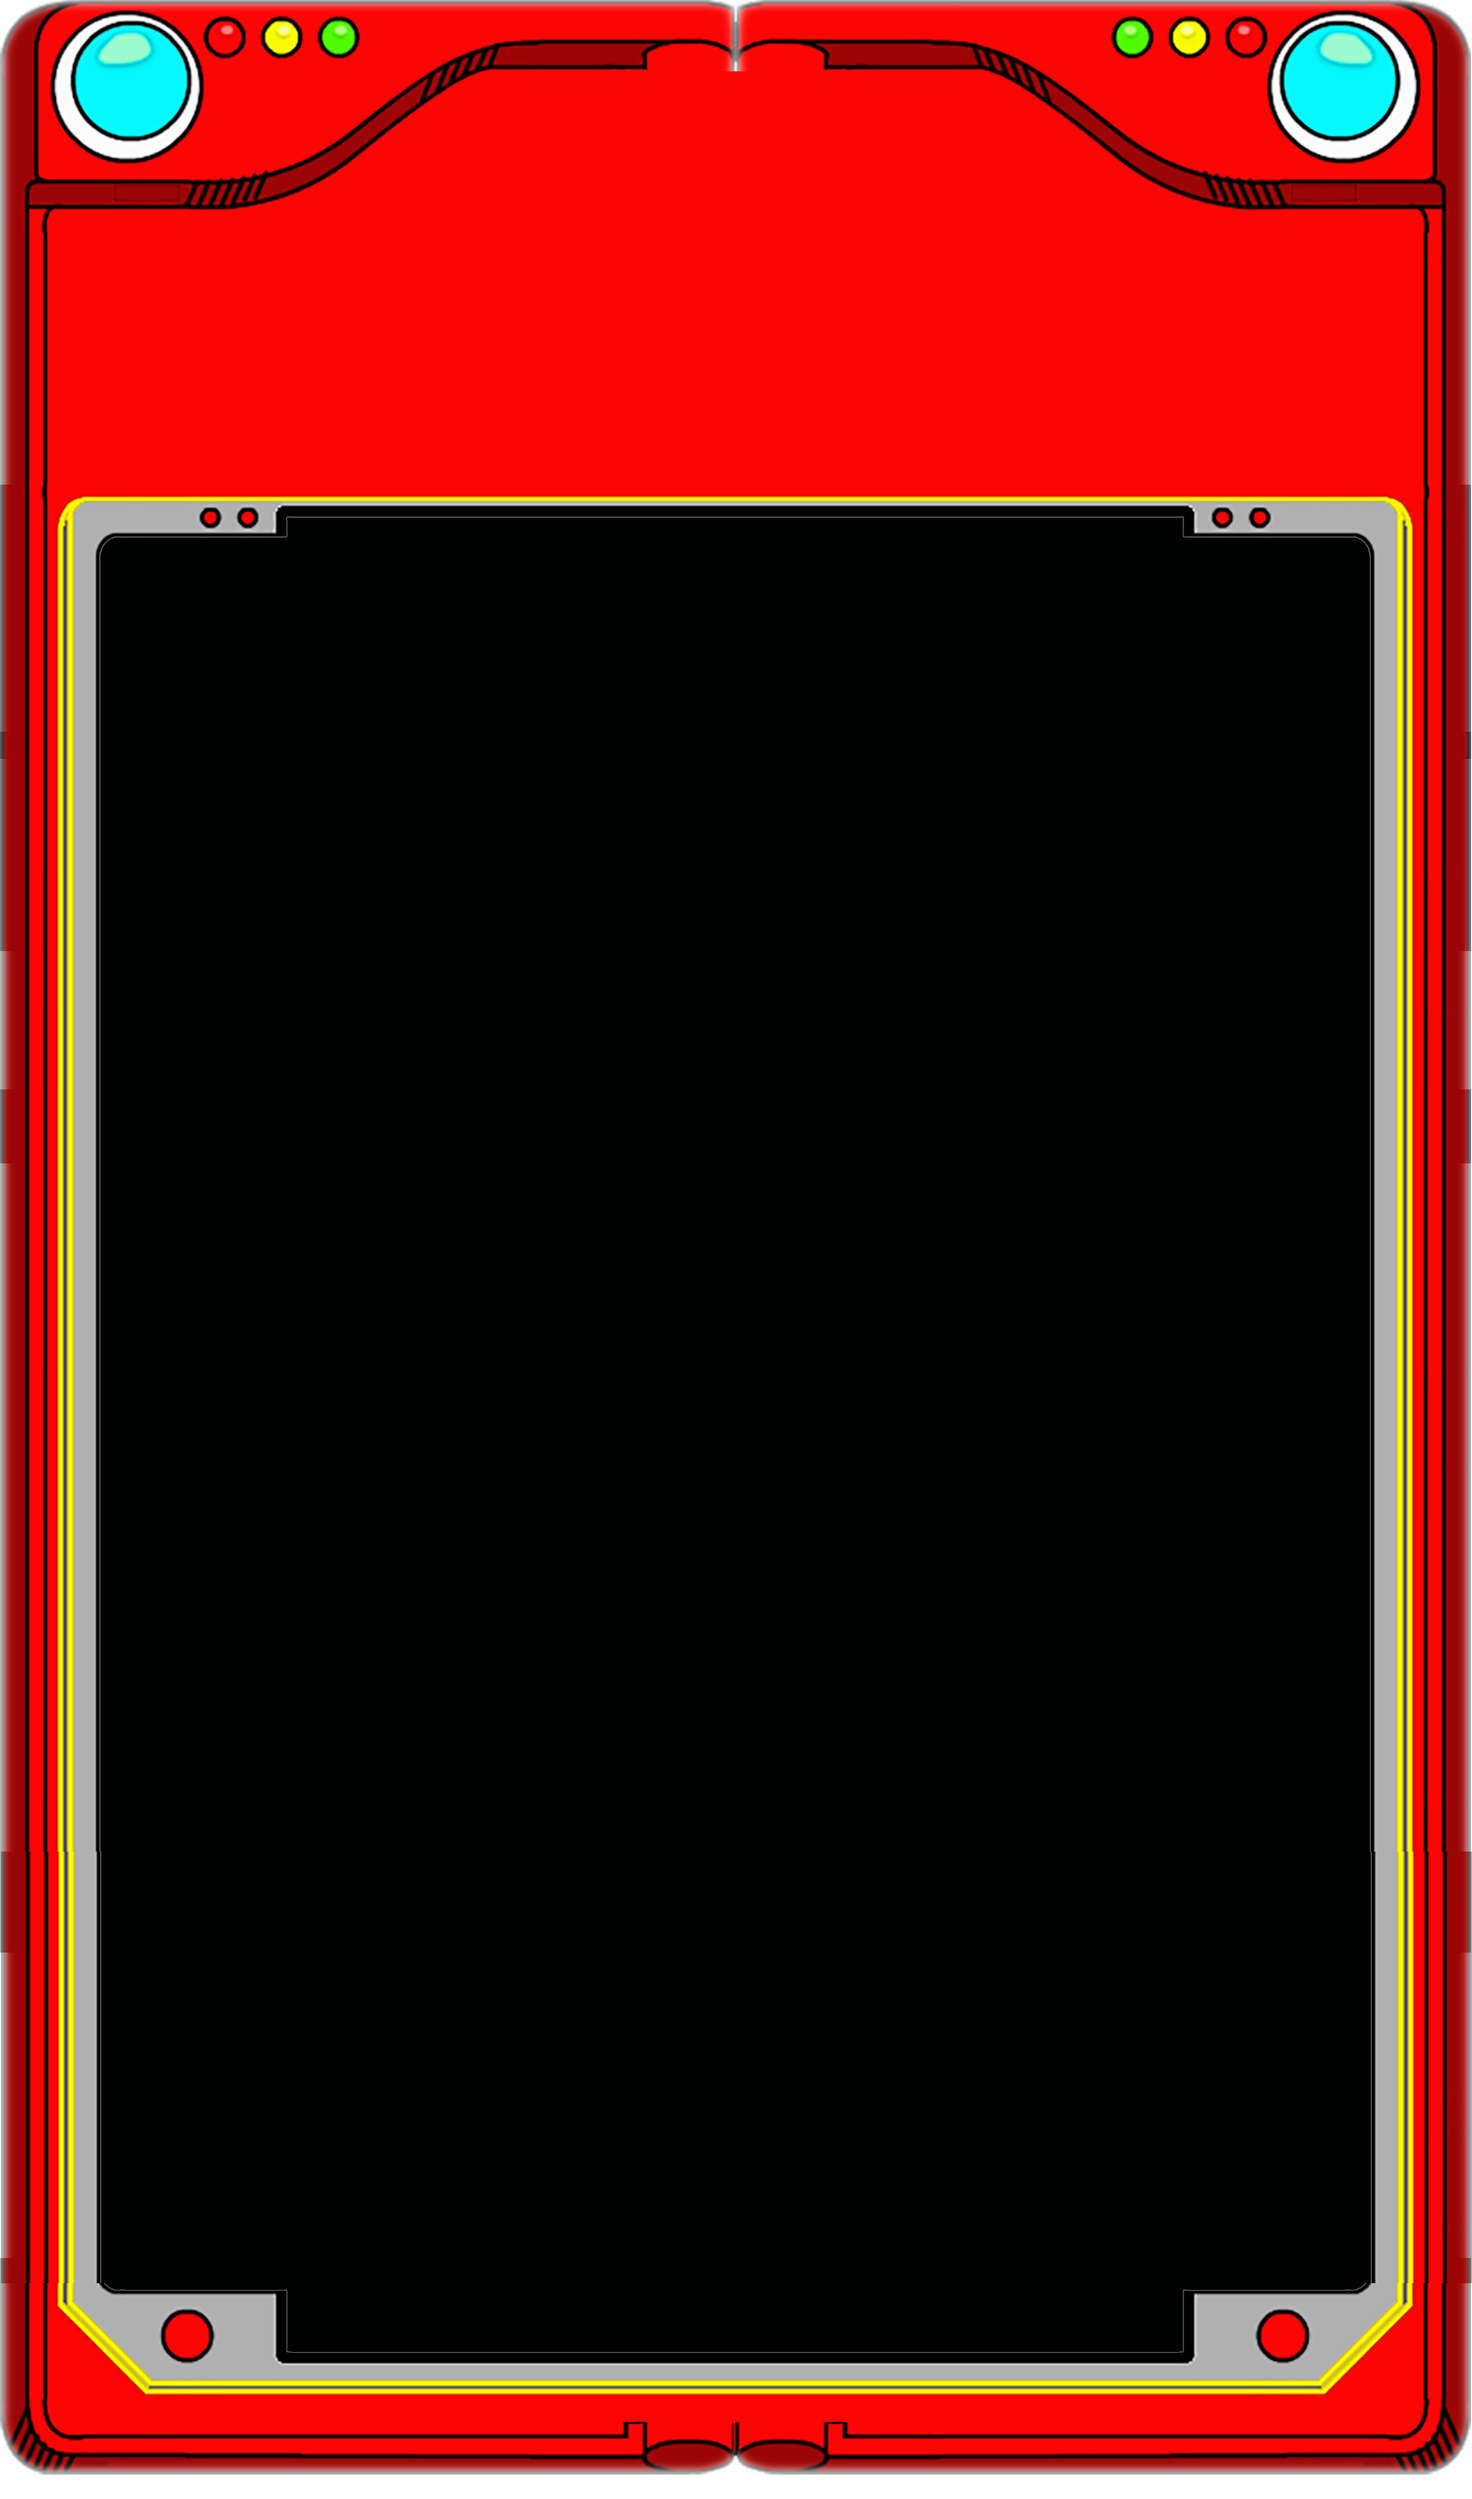
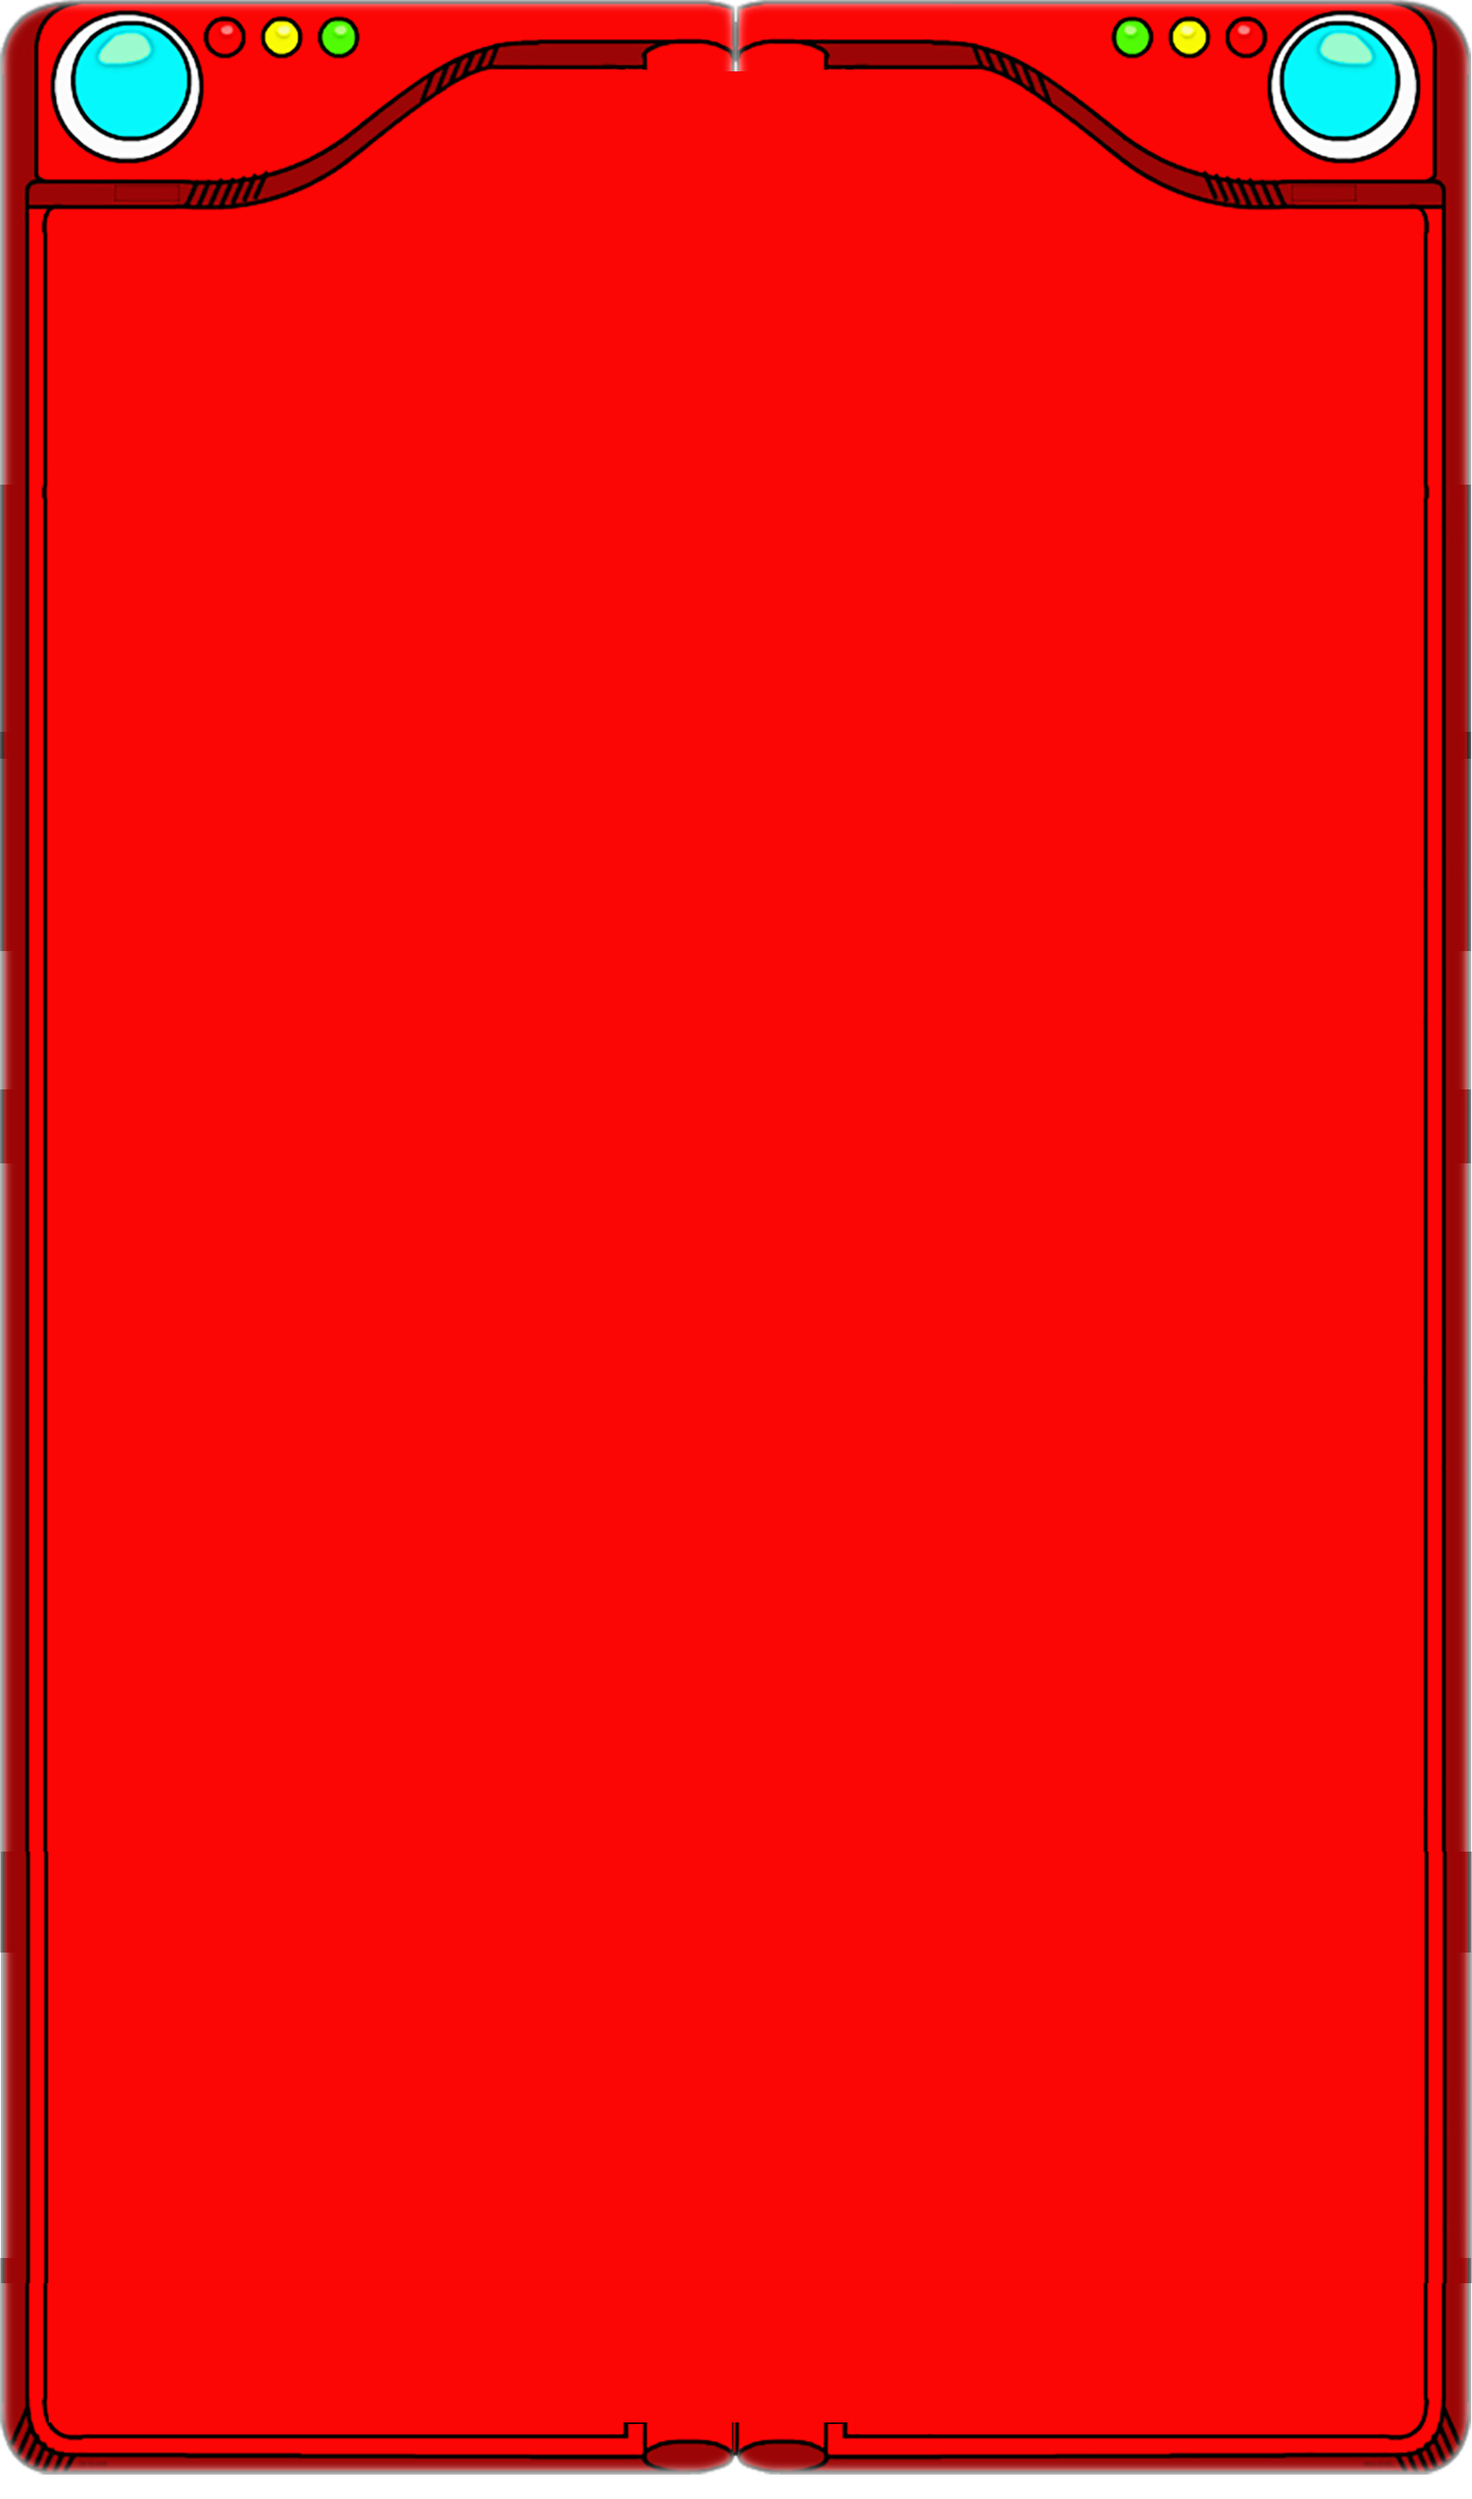
fix mobile

diff --git a/src/App.scss b/src/App.scss
@@ -804,7 +804,7 @@
     height: 130vh;
     width: 100%;
     background-color: #080b1b;
-    background-image: url(../src/img/PokedexBackground.png);
+    background-image: url(../src/img/PokedexBackgroundBasic.png);
     background-size: contain;
     background-repeat: no-repeat;
     background-position: top;
@@ -816,16 +816,53 @@
 
 
     .pokemonsCards {
-        margin-bottom: 13rem;
-        height: 50vh;
+        margin-top: 7rem;
+        height: 100%;
         width: 80%;
+        display: flex;
+        flex-direction: column;
+        justify-content: center;
+        align-items: center;
+        background-image: url(../src/img/PokedexBackgroundBottom.png);
+        background-size: contain;
+        background-repeat: no-repeat;
+        background-position: center;
+
+        @media (min-width:2560px) and (min-height:1440px){
+
+        }
+
+        @media (min-width:1920px) and (min-height:1200px){
+            margin-top: 0;
+        }
+        @media (max-width:1024px) and (max-height:720px){
+            margin-top: 0;
+            margin-bottom: 5rem;
+        }
+
+        @media (min-width:1025px) and (min-height:721px){
+            margin-top: 0;
+        }
+        
+
+        @media (max-width:576px){
+
+        }
+
+        @media (max-width:426px){
+            margin-bottom: 10rem;
+            height: 50vh;
+            width: 80%;
+        }
+
     }
 
     .pokemonsCardsBtn {
-        height: 10vh;
+        height: 10%;
         width: 100%;
         display: flex;
         justify-content: space-evenly;
+
 
         button {
             height: 3rem;
@@ -834,6 +871,18 @@
             background-color: black;
             color: #f0efed;
             font-family: 'Inconsolata', monospace;
+
+
+            @media (min-width:1025px) and (min-height:666px){
+                  margin-top: 4rem;
+                  width: 10rem;
+                  height: 1.5rem;
+            } 
+            @media (max-width:1024px) and (max-height:665px){
+               
+                  width: 10rem;
+                  height: 1.5rem;
+            }
 
             .prevBtn {
                 height: 100%;
@@ -869,12 +918,37 @@
 }
 
 .cards {
-    height: 80vh;
-    width: 100%;
-    display: flex;
-    flex-wrap: wrap;
-    justify-content: space-around;
-    align-content: center;
+    height: 40%;
+    width: 75%;
+    // display: flex;
+    // flex-wrap: wrap;
+    // justify-content: space-around;
+    // align-content: center;
+    display: grid;
+    grid-template-columns: repeat(5, 1fr);
+    grid-template-rows: 1fr 1fr;
+
+    @media (min-width:2560px) and (min-height:1440px){
+            margin-top: 6rem;
+    }
+
+    @media (min-width:1920px) and (min-height:1200px){
+        margin-top: 3rem;
+       height: 35%; 
+    }
+    @media (min-width:1680px) and (min-height:1050px){
+        margin-top: 3rem;
+        height: 35%;
+    }
+    @media (min-width:1440px) and (min-height:900px){
+        margin-top: 3rem;
+        height: 35%;
+    }
+    @media (max-width:1024px) and (max-height:720px){
+        margin-top: 2rem;
+        height: 35%;
+    }
+    
 
     h1 {
         color: #f0efed;
@@ -894,6 +968,40 @@
         border: 2px solid white;
         border-radius: 15px;
         filter: saturate(90%);
+
+        @media (min-width:1368px) and (min-height:768px){
+            height: 9rem;
+            width: 9rem;
+        }   
+
+
+
+
+        @media (min-width:1440px) and (min-height:900px){
+            height: 9rem;
+            width: 9rem;
+        }      
+        @media (min-width:1600px) and (min-height:900px){
+            height: 11rem;
+            width: 11rem;
+        }
+        @media (min-width:1680px) and (min-height:1050px){
+            height: 11rem;
+            width: 11rem;
+        }
+        @media (min-width:2560px) and (min-height:1440px){
+            width: 17rem;
+            height: 17rem;
+        }
+        @media (max-width:1410px){
+            height: 9rem;
+            width: 9rem;
+        }
+        @media (max-width:1024px) and (max-height:720px){
+            height: 7rem;
+            width: 7rem;
+            font-size: 12px;
+        }
 
         &:hover {
             border: 2px solid #FDF900;
@@ -1093,6 +1201,7 @@
     justify-content: space-evenly;
 
 
+
     .searchPokemon {
         height: 100%;
         width: 40%;
@@ -1282,21 +1391,25 @@
         height: 100vh;
         background-image: url(../src/img/PokedexBackgroundMobile.png);
 
-        .pokemonsCards {
-            margin-bottom: 11rem;
-            height: 50vh;
-            width: 80%;
-        }
+
         .cards {
-            height: 80vh;
-            width: 90%;
-            margin-left: 5%;
+            height: 80%;
+            width: 75%;
+            
+            grid-template-columns: 1fr 1fr 1fr;
+            grid-template-rows: repeat(5, 1fr);
+
+            @media (min-width:390px){
+                height: 60%;
+            }
+
             h1{
                 font-size: 3rem;
             }
             .card {
-                height: 5rem;
-                width: 5rem;
+                height: 4.5rem;
+                width: 4.5rem;
+                justify-self: center;
 
                 h2 {
                     font-size: 0.8rem;
@@ -1304,15 +1417,39 @@
             }
         }
 
+        .pokemonsCards {
+            //margin-bottom: 15rem;
+            margin-top: 30%;
+            height: 75%;
+            width: 90%;
+            background-image: url(../src/img/PokedexBackgroundMobileBottom.png);
+            background-size: contain;
+            background-repeat: no-repeat;
+            background-position: center;
+
+            @media (min-width:360px){
+                margin-top: 40%;
+            }
+
+            @media (min-width:375px){
+                margin-top: 50%;
+            }
+
+            @media (min-width:390px){
+                margin-top: 20%;
+            }
+
+
+        }
+
         .pokemonsCardsBtn {
-            height: 5vh;
-            width: 80%;
-            margin-left: 10%;
-            margin-top: -50px;
-            
+            height: 10%;
+            width: 75%;
+  
             button {
-                height: 2rem;
-                width: 12rem;
+                height: 1.5rem;
+                width: 6rem;
+                
             }
         }
     }
@@ -1367,19 +1504,44 @@
     
 
     .pokemonDetailContainer {
+        height: 100vh;
         background-image: url(../src/img/PokedexBackgroundMobile.png);
+        display: flex;
+        justify-content: center;
+        align-items: center;
         .pokemonDetail {
-            height: 20vh;
-            width: 70%;
-            margin-top: 2rem;
-            margin-left: 1rem;
+            margin: 0;
+            background-image: url(../src/img/PokedexBackgroundMobileBottom.png);
+            background-size: contain;
+            background-repeat: no-repeat;
+            background-position: center;
+            height: 100%;
+            width: 90%;
+            margin-bottom: 20%;
+
+            @media (min-width:360px){
+                margin-bottom: 10%;
+            }
+
+            @media (min-width:375px){
+                margin-top: 25%;
+            }
+
+            @media (min-width:390px){
+                margin-bottom: 50%;
+            }
+
+
            
             .pokemonDetailTop {
-                height: 90%;
+                height: 40%;
                 width: 100%;
-
+                flex-direction: column-reverse;
+                align-items: center;
+                justify-content: center;
                 .detailPicture {
-                    width: 60%;
+                    width: 30%;
+                    height: 30%;
                     display: flex;
                     align-items: center;
     
@@ -1416,20 +1578,21 @@
             .pokemonDetailBottom {
                 height: 20vh;
                 width: 100%;
+                margin-top: -15%;
 
                 .detailStats {
                     height: 100%;
-                    width: 100%;
+                    width: 80%;
         
                     .stats {
-                        margin-top: 2rem;
+                        margin-top: 1rem;
                         width: 100%;
                         height: 100%;
 
     
                         div {
                             font-size: 0.7rem;
-                            height: 80%;
+                            height: 40%;
                             width: 100%;
                             display: grid;
                             grid-template-columns: 40% 40% 10%;
@@ -1442,13 +1605,16 @@
     
             .pokemonDetailBtn {
                 padding-top: 3rem;
-                padding-right: 1rem;
+                //padding-right: 1rem;
+                padding-left: 2rem;
                 height: 10vh;
                 width: 100%;
+                justify-content: center;
+                margin-bottom: 15%;
     
                 button {
-                    height: 2rem;
-                    width: 15rem;
+                    height: 1.5rem;
+                    width: 6rem;
                 }
             }
         }
@@ -1463,6 +1629,7 @@
             margin-bottom: 15rem;
             height: 50vh;
             width: 80%;
+            
         }
         .cards {
             height: 80vh;

diff --git a/src/pages/Pokemons.jsx b/src/pages/Pokemons.jsx
@@ -133,7 +133,7 @@ function Pokemons() {
       <div className="pokemonsSearch">
         <div className="searchPokemon">
           <input type="text" value={input} placeholder="NAME OR ID" onChange={handleChange}></input>
-        <button type="submit" onClick={() => { navigate(`/pokemon/${input}`) }}>SEARCH POKEMON</button>
+          <button type="submit" onClick={() => { navigate(`/pokemon/${input}`) }}>SEARCH POKEMON</button>
         </div>
         <SearchType />
       </div>
